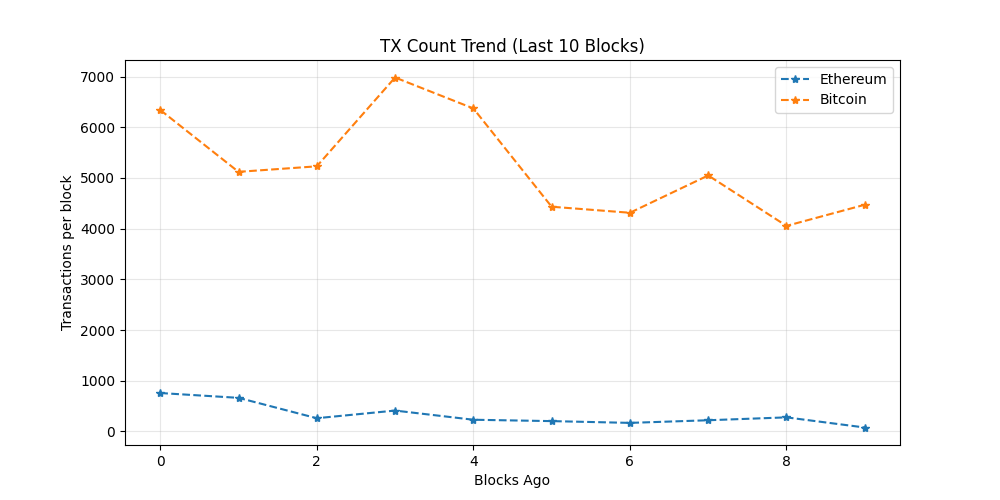
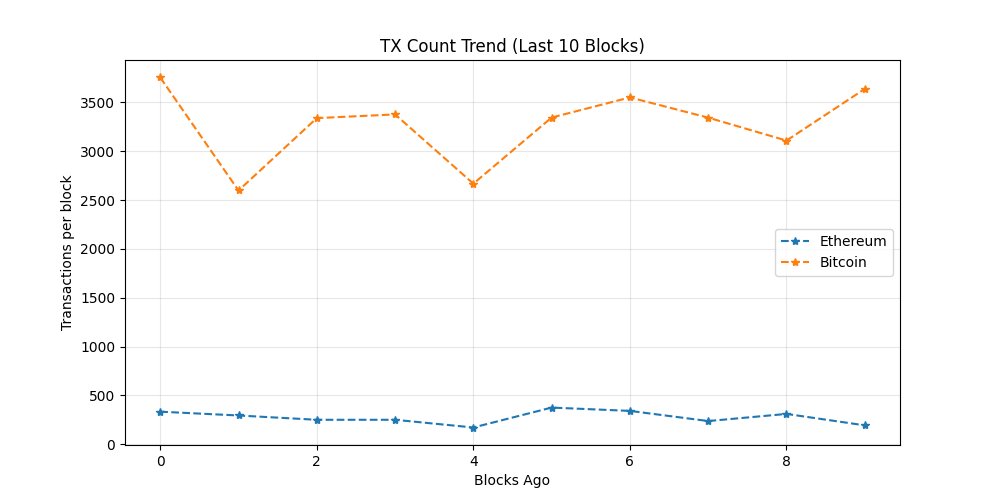
chore: update on-chain dashboard

diff --git a/README.md b/README.md
@@ -19,7 +19,7 @@ The README itself acts as the dashboard and is regenerated automatically on a 6 
 demonstrating a production-style, infrastructure-focused observability workflow rather
 than a traditional UI-driven approach.
 
-_Last updated: 2026-05-25 10:46 UTC_
+_Last updated: 2026-05-25 15:28 UTC_
 
 ## API Usage (GetBlock.io)
 - Calls used: **24**
@@ -27,8 +27,8 @@ _Last updated: 2026-05-25 10:46 UTC_
 ## Network Metrics
 | Chain | Block Height | TX Count | TPS (10 blk avg) | Block Util | Avg Fee |
 |------|-------------|----------|------------------|------------|---------|
-| Ethereum | 25171813 | 78 | 6.5 | 19.06% | 0.1 Gwei |
-| Bitcoin | 950943 | 4472 | 6.94 | 99.79% | N/A |
+| Ethereum | 25173211 | 193 | 16.08 | 39.18% | 0.3 Gwei |
+| Bitcoin | 950971 | 3638 | 5.57 | 90.01% | N/A |
 
 ## Visuals
 ### Transactions Trend
@@ -43,11 +43,11 @@ _Last updated: 2026-05-25 10:46 UTC_
 ## Whale Alerts (latest block)
 - Transaction hashes are truncated for readability.
 - Full hashes are available in `dashboards/metrics.json`
-- Bitcoin | 2254.0 BTC | `3c6aece36a04…`
-- Bitcoin | 123.0 BTC | `f7a6f427cd35…`
-- Bitcoin | 315.36 BTC | `6a2aff92a3f0…`
-- Bitcoin | 478.3 BTC | `4d06d95922ec…`
-- Bitcoin | 299.87 BTC | `75a4ba91037a…`
+- Bitcoin | 203.56 BTC | `769bb5ac0d10…`
+- Bitcoin | 256.17 BTC | `026da708cfb8…`
+- Bitcoin | 130.2 BTC | `bd4f2480f375…`
+- Bitcoin | 700.0 BTC | `221431bd524a…`
+- Bitcoin | 105.72 BTC | `19a00fff4c16…`
 
 ## Run locally
 
